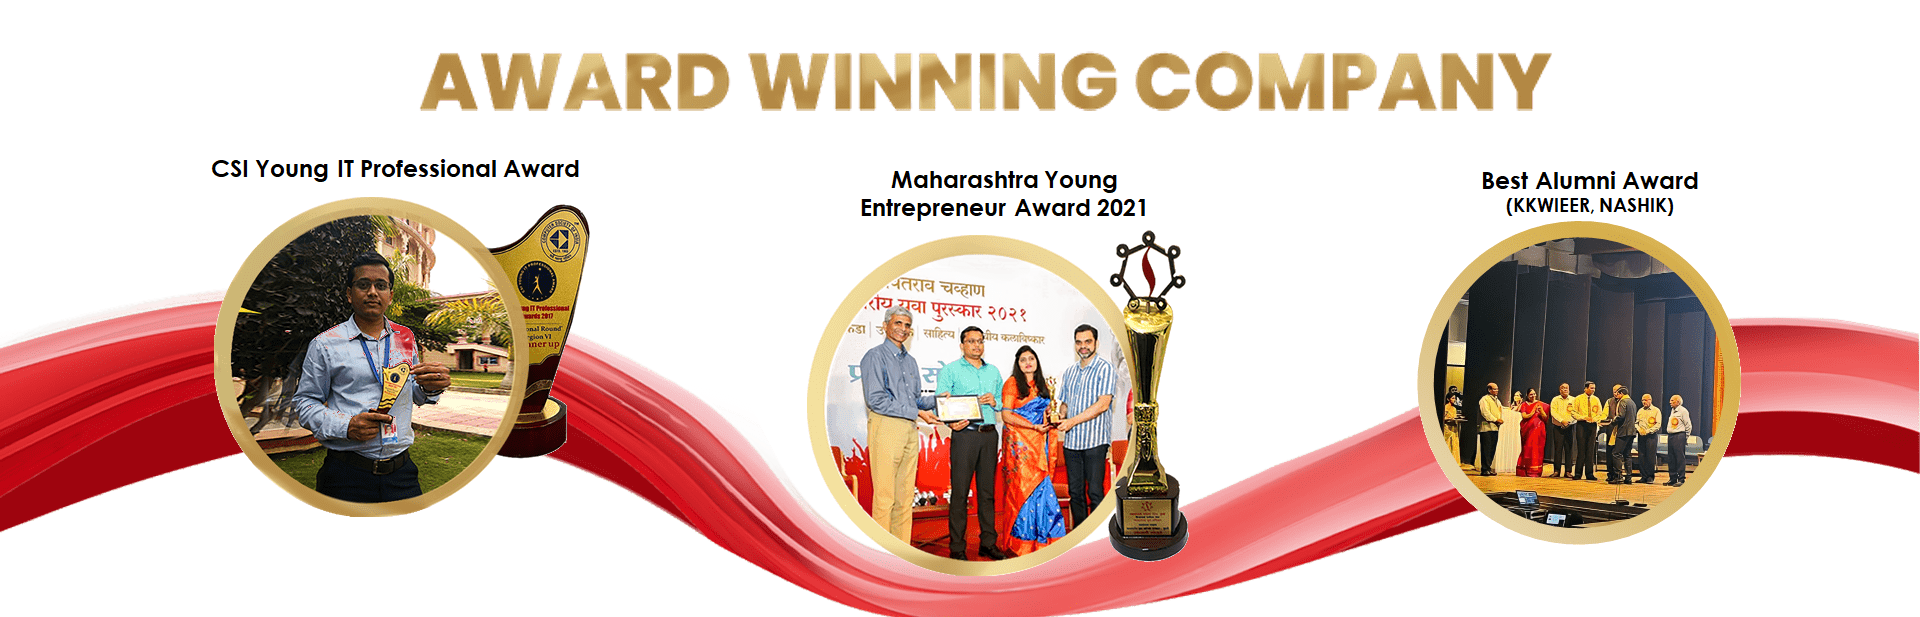
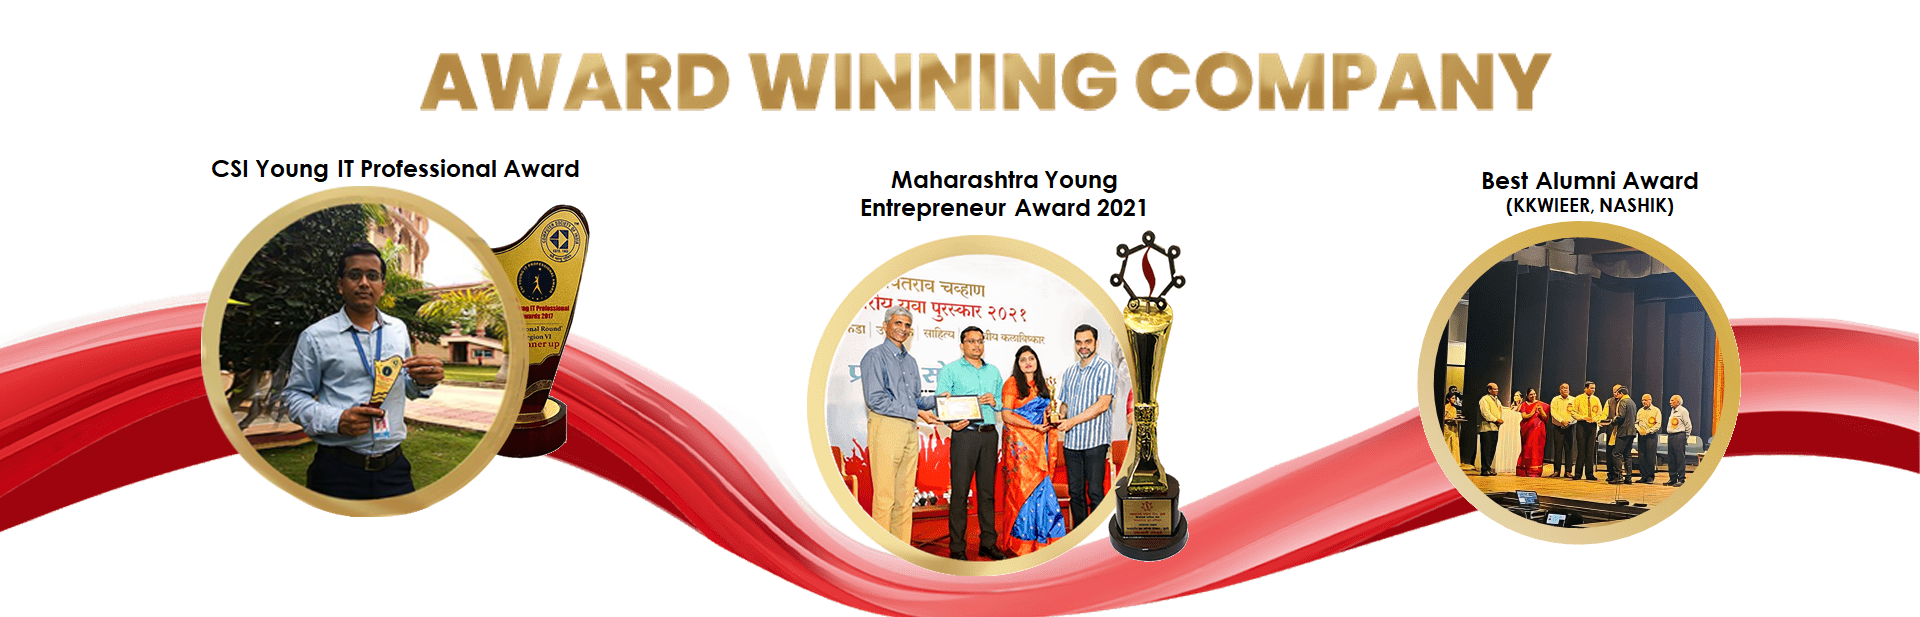
change img

Changed region(s): [[0.0938, 0.2771, 0.2812, 0.8314]]

diff --git a/wp-content/uploads/elementor/css/post-1802.css b/wp-content/uploads/elementor/css/post-1802.css
@@ -102,9 +102,9 @@
     margin-bottom: 0px;
 }
 
-.elementor-1802 .elementor-element.elementor-element-abee258>.elementor-element-populated {
+/* .elementor-1802 .elementor-element.elementor-element-abee258>.elementor-element-populated {
     padding: 0px 15px 0px 0px;
-}
+} */
 
 .elementor-1802 .elementor-element.elementor-element-b21af8c .te-count {
     color: #444444;
@@ -119,7 +119,7 @@
 }
 
 .elementor-1802 .elementor-element.elementor-element-b21af8c>.elementor-widget-container {
-    padding: 0px 0px 15px 0px;
+    padding: 0px 0px 1px 0px;
 }
 
 .elementor-1802 .elementor-element.elementor-element-c89885a .te-count {
@@ -135,7 +135,7 @@
 }
 
 .elementor-1802 .elementor-element.elementor-element-c89885a>.elementor-widget-container {
-    padding: 15px 0px 10px 0px;
+    padding: 1px 0px 1px 0px;
 }
 
 .elementor-bc-flex-widget .elementor-1802 .elementor-element.elementor-element-2d16222.elementor-column .elementor-widget-wrap {
@@ -151,9 +151,9 @@
     margin-bottom: 0px;
 }
 
-.elementor-1802 .elementor-element.elementor-element-2d16222>.elementor-element-populated {
+/* .elementor-1802 .elementor-element.elementor-element-2d16222>.elementor-element-populated {
     padding: 0px 0px 10px 15px;
-}
+} */
 
 .elementor-1802 .elementor-element.elementor-element-c26c5c0 .te-text {
     margin: -7px 0px 0px 0px;
@@ -223,7 +223,7 @@
 
 .elementor-1802 .elementor-element.elementor-element-79a7c18 {
     transition: background 0.3s, border 0.3s, border-radius 0.3s, box-shadow 0.3s;
-    padding: 65px 0px 65px 0px;
+    padding: 65px 0px 0px 0px;
 }
 
 .elementor-1802 .elementor-element.elementor-element-79a7c18>.elementor-background-overlay {
@@ -701,7 +701,7 @@
 }
 
 .elementor-1802 .elementor-element.elementor-element-f141bda {
-    padding: 70px 0px 70px 0px;
+    padding: 10px 0px 20px 0px;
 }
 
 .elementor-1802 .elementor-element.elementor-element-0839536>.elementor-widget-wrap>.elementor-widget:not(.elementor-widget__width-auto):not(.elementor-widget__width-initial):not(:last-child):not(.elementor-absolute) {

diff --git a/wp-content/themes/printpark/assets/css/responsive.css b/wp-content/themes/printpark/assets/css/responsive.css
@@ -365,7 +365,7 @@
   }
 
   .main-footer .widget-section{
-    padding-bottom: 64px;
+    padding-bottom: 10px;
   }
 
   .working-block-one .inner-box{
@@ -495,6 +495,12 @@
   .weare-section .image-box{
     margin-left: 0px;
   }
+  .elementor-1802 .elementor-element.elementor-element-abee258>.elementor-element-populated {
+    padding: 0px 0px 0px 0px;
+}
+.elementor-1802 .elementor-element.elementor-element-2d16222>.elementor-element-populated {
+  padding: 0px 0px 0px 0px;
+}
 
   .mission-section .image-box{
     margin-bottom: 40px;
@@ -570,6 +576,9 @@
     display: none;
   }
 
+  #topscrll{
+    display: none;
+  }
   .page-title .auto-container .content-box{
     margin-bottom: 20px;
     }
@@ -577,6 +586,13 @@
     display: none;
   }
 
+  
+.main-footer .social-links li a{
+  width: 30px;
+  height: 30px;
+  line-height: 30px;
+ 
+}
   .destopaward{
     display: none;
   }

diff --git a/wp-content/themes/printpark/assets/css/style.css b/wp-content/themes/printpark/assets/css/style.css
@@ -2270,7 +2270,7 @@ div#mCSB_1_container{
 
 .funfact-block-one{
   position: relative;
-  padding-bottom: 32px;
+  padding-bottom: 40px;
 }
 
 .funfact-block-one .inner-box{
@@ -4293,7 +4293,7 @@ div#mCSB_1_container{
   display: flex;
   align-items: center;
   justify-content: space-between;
-  padding: 0px 0px 33px 0px;
+  padding: 0px 0px 10px 0px;
   border-bottom: 1px dashed rgba(255, 255, 255, 0.15);
 }
 

diff --git a/wp-content/uploads/elementor/css/post-32.css b/wp-content/uploads/elementor/css/post-32.css
@@ -38,7 +38,7 @@
 }
 
 .elementor-32 .elementor-element.elementor-element-ca357b3 {
-    padding: 40px 0px 60px 0px;
+    padding: 40px 0px 50px 0px;
 }
 
 .elementor-32 .elementor-element.elementor-element-23e9cbe>.elementor-widget-wrap>.elementor-widget:not(.elementor-widget__width-auto):not(.elementor-widget__width-initial):not(:last-child):not(.elementor-absolute) {

diff --git a/index.php b/index.php
@@ -1225,7 +1225,7 @@
                                                         </div>
                                                     </div>
                                                     <div
-                                                        class="col-lg-4 col-md-6 col-sm-12 mt-5 service-block te-service-block">
+                                                        class="col-lg-4 col-md-6 col-sm-12 mt-2 service-block te-service-block">
                                                         <div class="service-block-one wow fadeInUp animated"
                                                             data-wow-delay="00ms" data-wow-duration="1500ms">
                                                             <div class="inner-box">
@@ -1255,7 +1255,7 @@
                                                         </div>
                                                     </div>
                                                     <div
-                                                        class="col-lg-4 col-md-6 col-sm-12 mt-5 service-block te-service-block">
+                                                        class="col-lg-4 col-md-6 col-sm-12 mt-2 service-block te-service-block">
                                                         <div class="service-block-one wow fadeInUp animated"
                                                             data-wow-delay="00ms" data-wow-duration="1500ms">
                                                             <div class="inner-box">
@@ -1286,7 +1286,7 @@
                                                         </div>
                                                     </div>
                                                     <div
-                                                        class="col-lg-4 col-md-6 col-sm-12 mt-5 service-block te-service-block">
+                                                        class="col-lg-4 col-md-6 col-sm-12 mt-2 service-block te-service-block">
                                                         <div class="service-block-one wow fadeInUp animated"
                                                             data-wow-delay="00ms" data-wow-duration="1500ms">
                                                             <div class="inner-box">
@@ -1316,7 +1316,7 @@
                                                         </div>
                                                     </div>
                                                     <div
-                                                        class="col-lg-4 col-md-6 col-sm-12 mt-5 service-block te-service-block">
+                                                        class="col-lg-4 col-md-6 col-sm-12 mt-2 service-block te-service-block">
                                                         <div class="service-block-one wow fadeInUp animated"
                                                             data-wow-delay="00ms" data-wow-duration="1500ms">
                                                             <div class="inner-box">
@@ -1346,7 +1346,7 @@
                                                         </div>
                                                     </div>
                                                     <div
-                                                        class="col-lg-4 col-md-6 col-sm-12 mt-5 service-block te-service-block">
+                                                        class="col-lg-4 col-md-6 col-sm-12 mt-2 service-block te-service-block">
                                                         <div class="service-block-one wow fadeInUp animated"
                                                             data-wow-delay="00ms" data-wow-duration="1500ms">
                                                             <div class="inner-box">
@@ -1376,7 +1376,7 @@
                                                         </div>
                                                     </div>
                                                     <div
-                                                        class="col-lg-4 col-md-6 col-sm-12 mt-5 service-block te-service-block">
+                                                        class="col-lg-4 col-md-6 col-sm-12 mt-2 service-block te-service-block">
                                                         <div class="service-block-one wow fadeInUp animated"
                                                             data-wow-delay="00ms" data-wow-duration="1500ms">
                                                             <div class="inner-box">

diff --git a/footer.php b/footer.php
@@ -54,13 +54,13 @@
 
                     </div>
                 </div> -->
-                <div class="col-lg-2 col-md-6 col-sm-12 footer-column">
+                <div class="col-lg-2 col-md-12 col-sm-12 footer-column">
                     <div id="nav_menu-1" class="footer-widget single-footer-widget widget_nav_menu">
                         <div class="widget-title">
                             <h3>Company</h3>
                         </div>
                         <div class="menu-company-menu-container">
-                            <ul id="menu-company-menu" class="menu">
+                            <ul id="menu-company-menu" class="menu p-2">
                                 <li id="menu-item-1270"
                                     class="menu-item menu-item-type-post_type menu-item-object-page menu-item-1270">
                                     <a href="about.php">
@@ -88,13 +88,13 @@
                         </div>
                     </div>
                 </div>
-                <div class="col-lg-5 col-md-6 col-sm-12 footer-column">
+                <div class="col-lg-5 col-md-12 col-sm-12 footer-column">
                     <div id="nav_menu-2" class="footer-widget single-footer-widget widget_nav_menu">
                         <div class="widget-title">
                             <h3>Services</h3>
                         </div>
-                        <div class="menu-essentials-menu-container d-flex">
-                            <ul id="menu-essentials-menu" class="menu">
+                        <div class="menu-essentials-menu-container d-lg-flex">
+                            <ul id="menu-essentials-menu" class="menu p-2">
                                 <li id="menu-item-1271"
                                     class="menu-item menu-item-type-post_type menu-item-object-service menu-item-1271">
                                     <a href="Web_Development.php">Web Development</a>
@@ -125,7 +125,7 @@
                                 </li>
 
                             </ul>
-                            <ul id="menu-company-menu " class="menu ms-5">
+                            <ul id="menu-company-menu " class="menu p-2">
                                 <!-- <li id="menu-item-1270"
                                     class="menu-item menu-item-type-post_type menu-item-object-page menu-item-1270">
                                    <a href="Data_Analytics.php">Data Analytics</a>
@@ -154,7 +154,7 @@
                         </div>
                     </div>
                 </div>
-                <div class="col-lg-4 col-md-6 col-sm-12 footer-column">
+                <div class="col-lg-4 col-md-12 col-sm-12 footer-column">
                     <div id="printpark_promotion-1"
                         class="footer-widget single-footer-widget widget_printpark_promotion">
                         <div class="promotion-widget">
@@ -183,7 +183,7 @@
                 <figure class="footer-logo"><a href="./index.php"><img style="height:40px; width:300px"
                             src="./wp-content/uploads/2023/08/wwww.png" alt="Awesome Image"></a></figure>
                 <div class="copyright">
-                    <p>Copyrights &copy; 2023 <a href="index.php">Sumago.</a>
+                    <p>Copyrights &copy; <?php echo date("Y"); ?> <a href="index.php">Sumago.</a>
                         All Rights
                         Reserved.</p>
                 </div>
@@ -209,6 +209,12 @@
                     <li>
                         <a target="_blank" href="https://www.youtube.com/channel/UCoUCNHO1wXI92HnEmNtIkEg?view_as=subscriber"><i class="fab  fa-youtube"></i></a>
                     </li>
+                    <li>
+                        <!-- scroll to top -->
+                        <button class="scroll-top scroll-to-target" id="topscrll"  data-target="html">
+                            <i class="flaticon-arrow-up"></i>
+                        </button>
+                    </li>
 
 
                 </ul>
@@ -233,10 +239,7 @@
 
 
 
-<!-- scroll to top -->
-<button class="scroll-top scroll-to-target" data-target="html">
-    <i class="flaticon-arrow-up"></i>
-</button>
+
 
 
 

diff --git a/career.php b/career.php
@@ -603,7 +603,7 @@ Apply Now
                 <img src="captcha.php">
             </div> -->
             
-            <div class="form-group text-center">
+            <div class="form-group text-center mt-4">
                    <input class="btn btn-success btn-lg"  type="submit" name="btn_submit" value="Submit">
                     
                     <!-- <input class="btn btn-danger btn-lg" type="reset" name="btn_reset" value="Clear"> -->
@@ -907,9 +907,9 @@ Apply Now
 
                             <section class="testimonial-style-three p-0 m-0">
                                 <div class="sec-title p-0 m-0">
-                                    <h5 class="yt-btn"><a class="printpark-btn" href="">
+                                    <h5 class="yt-btn"><a class="printpark-btn">
                                         
-                                        <!--<i class="flaticon-arrow-right"></i>-->
+                                        <i class="flaticon-arrow-right"></i>
                                         View All Reviews</a></h5>
                                 </div>
                             </section>

diff --git a/contact.php b/contact.php
@@ -243,7 +243,7 @@
                                                                                             aria-invalid="false"
                                                                                             placeholder="Phone*"
                                                                                             value="" type="text"
-                                                                                            name="phone"></span>
+                                                                                            name="phone" required></span>
                                                                                 </p>
                                                                             </div>
                                                                             <div

diff --git a/send_email.php b/send_email.php
@@ -3,9 +3,9 @@
 if(isset($_POST["submit"])){
 // Checking For Blank Fields..
 if($_POST["name"]==""||$_POST["email"]==""||$_POST["phone"]==""||$_POST["website"]==""||$_POST["message"]==""){
-echo "<script>;";
+echo "<script>";
 echo "alert('Fill All Fields..');";
-echo "</script>;";
+echo "</script>";
 
 }else{
 // Check if the "Sender's Email" input field is filled out

diff --git a/Web_Development.php b/Web_Development.php
@@ -186,7 +186,7 @@ GET A QUOTE
 </div>
 <div>
     <button type="button" class="theme-btn btn-two"  data-bs-toggle="modal" data-bs-target="#exampleModal" data-bs-toggle="modal" data-bs-target="#exampleModal">
-GET A QUOTEs
+GET A QUOTE
 </button>
 </div>
 <!-- Modal end-->
